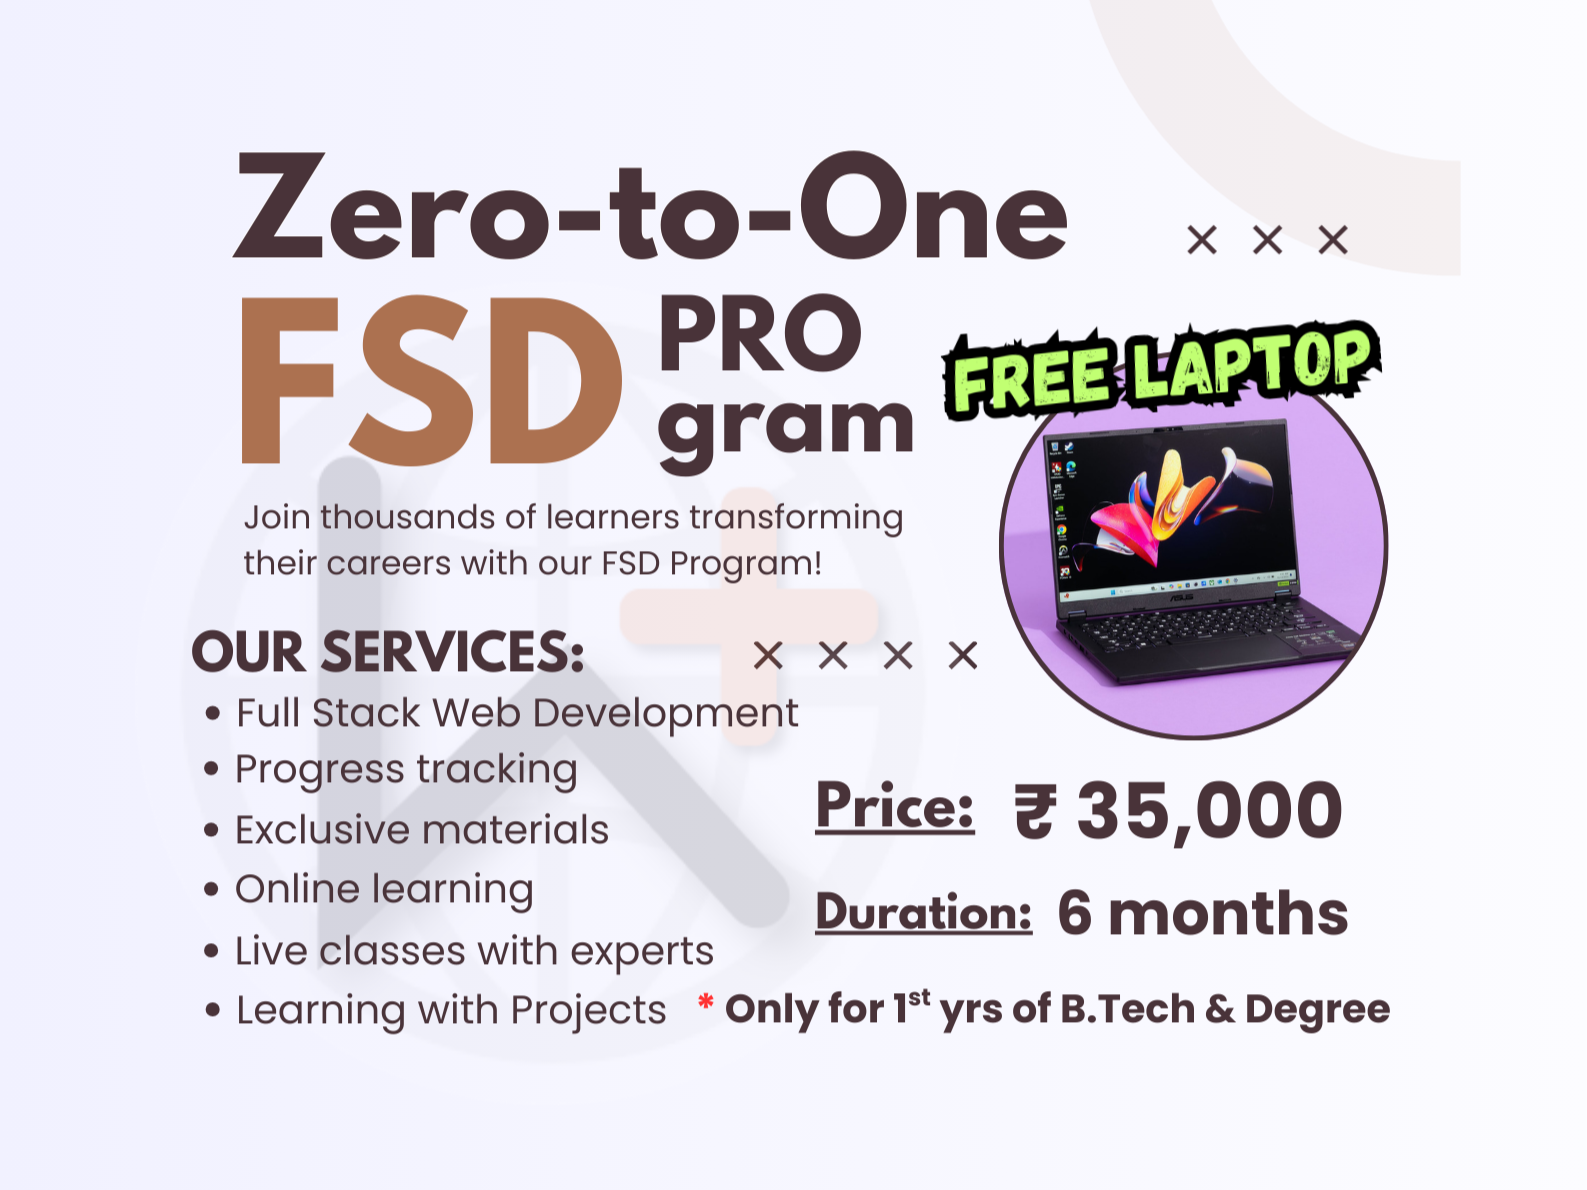
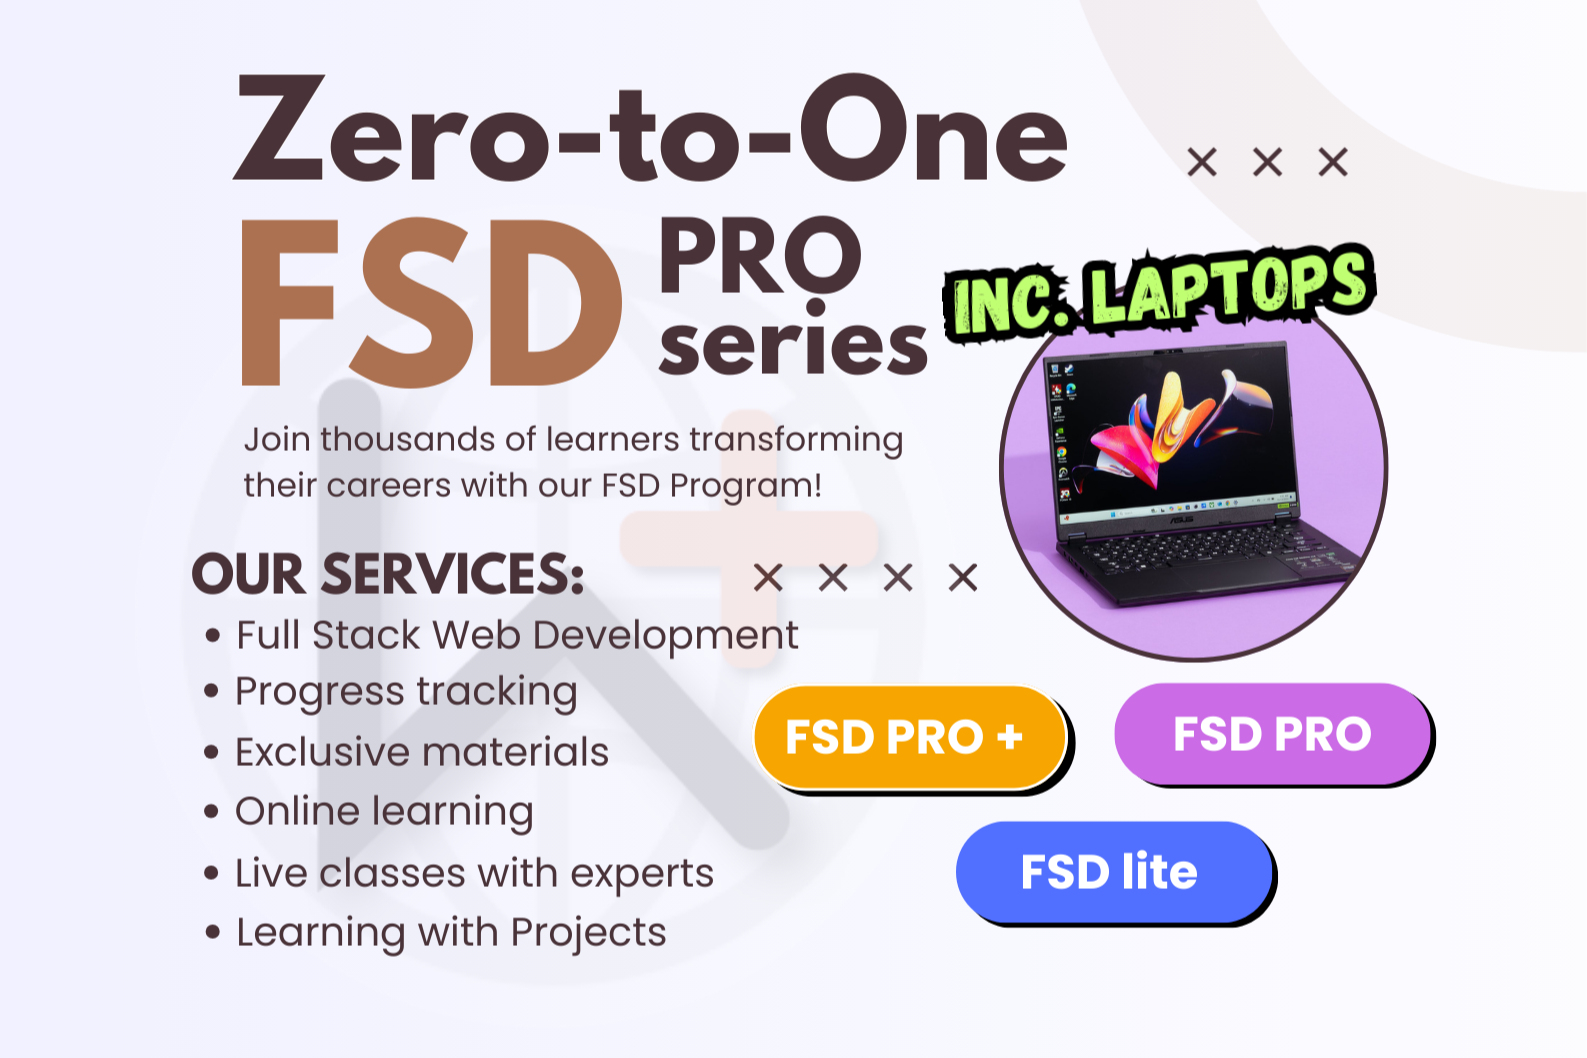
fsd series update

diff --git a/course.html b/course.html
@@ -16,8 +16,8 @@
   <body>
     <section class="webplus-pricing-section-container" style="margin-bottom: 50px;">
       <div class="tag">
-        FSD PRO Series-Specialized<br />
-        Launched for 1st yrs
+        " FSD PRO + " was Only for<br />
+        B.Tech & Degree 1st yrs
       </div>
 
       <h1 class="webplus-pricing-main-heading">Choose Your Learning Path</h1>
@@ -27,23 +27,24 @@
       </p>
 
     
-      <h2 class="popular-courses" style="margin-bottom: 0;">FSD PRO Series</h2>
-      <p style="margin-bottom: 50px; padding: 0 50px;">(Only for 1st yr B.Tech & Degree students - Apply via Student ID card)</p>
+      <h2 class="popular-courses " style="margin-bottom: 0;" >FSD PRO Series</h2>
+      <p style="margin-bottom: 50px; padding: 0 50px;">(B.Tech & Degree students - Activate EMI option via Student ID card)</p>
       <div class="webplus-pricing-plans-wrapper">
         <!-- Elite Career Accelerator -->
         <div class="webplus-individual-plan-card-box ">
           <span class="tag-premium metallic-button-gold">Intern Track</span>
           <h2 class="webplus-plan-title-text-heading">
-            <b>FSD PRO<b style="color: rgb(228, 149, 0);">+</b></b>
+            <b>FSD PRO<b style=" color: rgb(219, 144, 4);"> +</b></b>
           </h2>
-          <p class="webplus-plan-pricing-display">₹38,000<b></b></p>
-          <p><b>Duration:</b> 6 months</p>
-          <!-- <p><b>Syllabus:</b> <a href="https://drive.google.com/drive/folders/1L_O9ZpPzbi7ix19gGzwOl3DpUzRsUgTD?usp=sharing">Clickhere</a></p> -->
-          <p><b>Instructor:</b> Saran Velmurugan</p>
+          <p class="webplus-plan-pricing-display" style="margin-bottom: 0;">₹5,000 </p>
+          <b style="font-size: 12px;">(per month for 6 months)</b>
+          <p><b>Track Duration:</b> 1 to 3 years</p>
+          <p><b>Down Payment:</b> ₹10,000</p>
+          <!-- <p><b>Instructor:</b> Saran Velmurugan</p> -->
           <p class="webplus-plan-description-paragraph">
-            <b style="font-size: 1.3rem">FSD + <b style="color: orange;">FREE Laptop</b> + Internship</b>
+            <b style="font-size: 1.3rem">FSD + <b style="color: orange;"> Laptop </b> + Internship</b>
             <br />
-            Designed for Development & Internship
+            Industrial Experience with Internship
             <!-- <br>
             <b style="font-size: 1.5rem;">5.0</b>
                 <i class="fas fa-star" style="color:gold;"></i>
@@ -67,13 +68,15 @@
           <!-- <span class="tag-best-value">Most Popular Choice</span> -->
           <span class="tag-premium metallic-button-silver">Learner Track</span>
           <h2 class="webplus-plan-title-text-heading"><b>FSD PRO</b></h2>
-          <p class="webplus-plan-pricing-display">₹35,000</p>
-          <p><b>Duration:</b> 6 months</p>
+          <p class="webplus-plan-pricing-display" style="margin-bottom: 0;">₹5,000 </p>
+          <b style="font-size: 12px;">(per month for 5 months)</b>
+          <p><b>Track Duration:</b> 6 months</p>
+          <p><b>Total FEE:</b> ₹25,000</p>
           <!-- <p><b>Syllabus:</b> <a href="https://drive.google.com/drive/folders/1w_1-vwkt9juf9GunQfJYO1OrYk90_vKK?usp=sharing">Clickhere</a></p> -->
-          <p><b>Instructor:</b> Saran Velmurugan</p>
+          <!-- <p><b>Instructor:</b> Saran Velmurugan</p> -->
           <p class="webplus-plan-description-paragraph">
-            <b style="font-size: 1.3rem">FSD + <b style="color: orange;">FREE Laptop</b></b> <br />
-            Learn Web Dev. & get a FREE Laptop
+            <b style="font-size: 1.3rem">FSD + <b style="color: orange;">Projects</b></b> <br />
+            Learn Web Dev | Projects | Own Laptop
             <!-- <br>
             <b style="font-size: 1.5rem;">5.0</b>
                 <i class="fas fa-star" style="color:gold;"></i>
@@ -95,15 +98,17 @@
           class="webplus-individual-plan-card-box"
           style="border: 2px solid rgba(128, 0, 128, 0.466)"
         >
-          <!-- <span class="tag-best-saver">Time & Money Saver</span> -->
-          <h2 class="webplus-plan-title-text-heading"><b>FSD - 180</b></h2>
-          <p class="webplus-plan-pricing-display">₹27,000</p>
-          <p><b>Duration:</b> 6 months</p>
+          <span class="tag-best-saver">Time - Saver</span>
+          <h2 class="webplus-plan-title-text-heading"><b>FSD lite</b></h2>
+          <p class="webplus-plan-pricing-display" style="margin-bottom: 0;">₹4,500 </p>
+          <b style="font-size: 12px;">(per month for 3 months)</b>
+          <p><b>Track Duration:</b> 3 months</p>
+          <p><b>Total FEE:</b> ₹13,500</p>
           <!-- <p><b>Syllabus:</b> <a href="https://drive.google.com/drive/folders/11PbO407lbevVDpgVAkeBQPrm73MfjrJ2?usp=sharing">Clickhere</a></p> -->
-          <p><b>Instructor:</b> Saran Velmurugan</p>
+          <!-- <p><b>Instructor:</b> Saran Velmurugan</p> -->
           <p class="webplus-plan-description-paragraph">
-            <b style="font-size: 1.3rem">Full-Stack-Dev in 180 Days</b> <br />
-            Budget-Friendly | Own Laptop
+            <b style="font-size: 1.3rem">Full-Stack-Dev in 90 Days</b> <br />
+            Time - Saver | Fast learning | Own Laptop
             <!-- <br>
             <b style="font-size: 1.5rem;">5.0</b>
                 <i class="fas fa-star" style="color:gold;"></i>
@@ -115,15 +120,15 @@
           </p> 
           <a target="_blank" href="https://forms.gle/YRVr9eqKfyLp9BHM8"
             ><button class="webplus-enroll-button-action-green">
-              Enroll FSD - 180
+              Enroll FSD lite
             </button></a
           >
         </div>
       </div>
 
       <!-- Specialized Boosters  -->
-      <h2 class="popular-courses" style="margin-bottom: 0;">Specialized Skill Boosters</h2>
-      <p style="margin-bottom: 50px; padding: 0 50px;">(Only for 1st yr B.Tech & Degree students - Apply via Student ID card)</p>
+      <h2 class="popular-courses">Specialized Skill Boosters</h2>
+      <!-- <p style="margin-bottom: 50px; padding: 0 50px;">(Only for 1st yr B.Tech & Degree students - Apply via Student ID card)</p> -->
       <div class="webplus-pricing-plans-wrapper">
 
         <div

diff --git a/index.html b/index.html
@@ -223,10 +223,12 @@ https://templatemo.com/tm-588-ebook-landing
                             </ul> -->
                             <!-- CTA -->
                             <a href="https://wa.me/918886200010?text=Hello%2C%20I%20am%20interested%20in%20the%20Zero%20to%20One%20FSD%20Course.%20Please%20share%20more%20details." target="_blank">
-                            <button
-                                style="margin-top: 10px; background:#25D366; color:#fff; padding:5px 10px; border:none; border-radius:10px; cursor:pointer; font-size:15px; font-weight:bold; transition:0.3s; box-shadow:0 4px 10px rgba(0,0,0,0.2);">
-                                Apply via WhatsApp <img src="https://www.freeiconspng.com/thumbs/logo-whatsapp-png/whatsapp-logo-transparent-background-12.png" alt="" height="30"> 
-                            </button>
+                                 <p style="font-size:13px; margin-top:6px; margin-bottom: 5px;"><b>FSD PRO + | FSD PRO | FSD lite</b></p>
+                        
+                            <a href="./course.html" target="_blank"><button
+                                style="height: 40px; margin-top: 10px; background:#006ec8; color:#fff; padding:5px 10px; border:none; border-radius:10px; cursor:pointer; font-size:15px; font-weight:bold; transition:0.3s; box-shadow:0 4px 10px rgba(0,0,0,0.2);">
+                                View more Details
+                            </button></a>
                             <p style="font-size:13px; margin-top:6px; margin-bottom: 5px;"><b>Designing | Development | Deployment </b></p>
                         </a>
                             <!-- <p style="margin-top:10px; font-size:12px; color:#666;">
